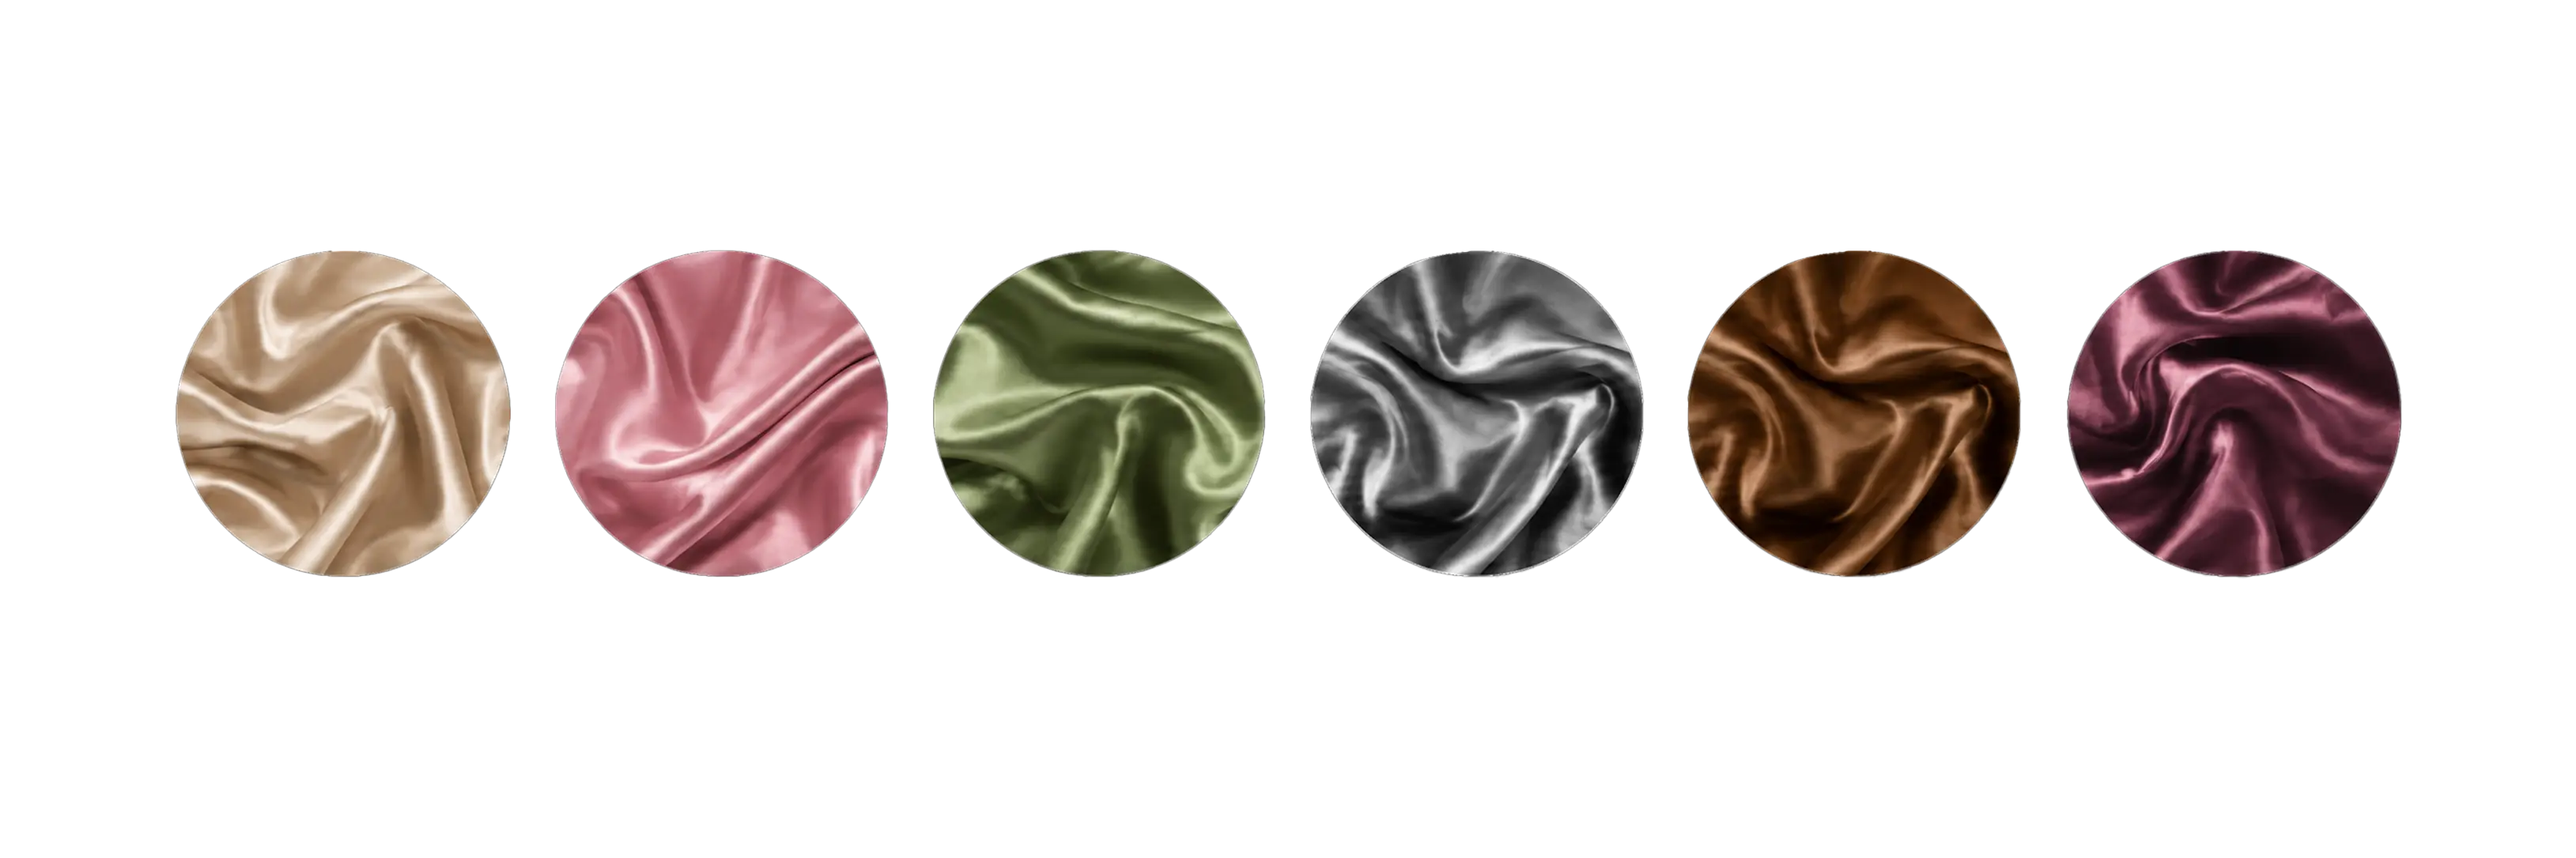
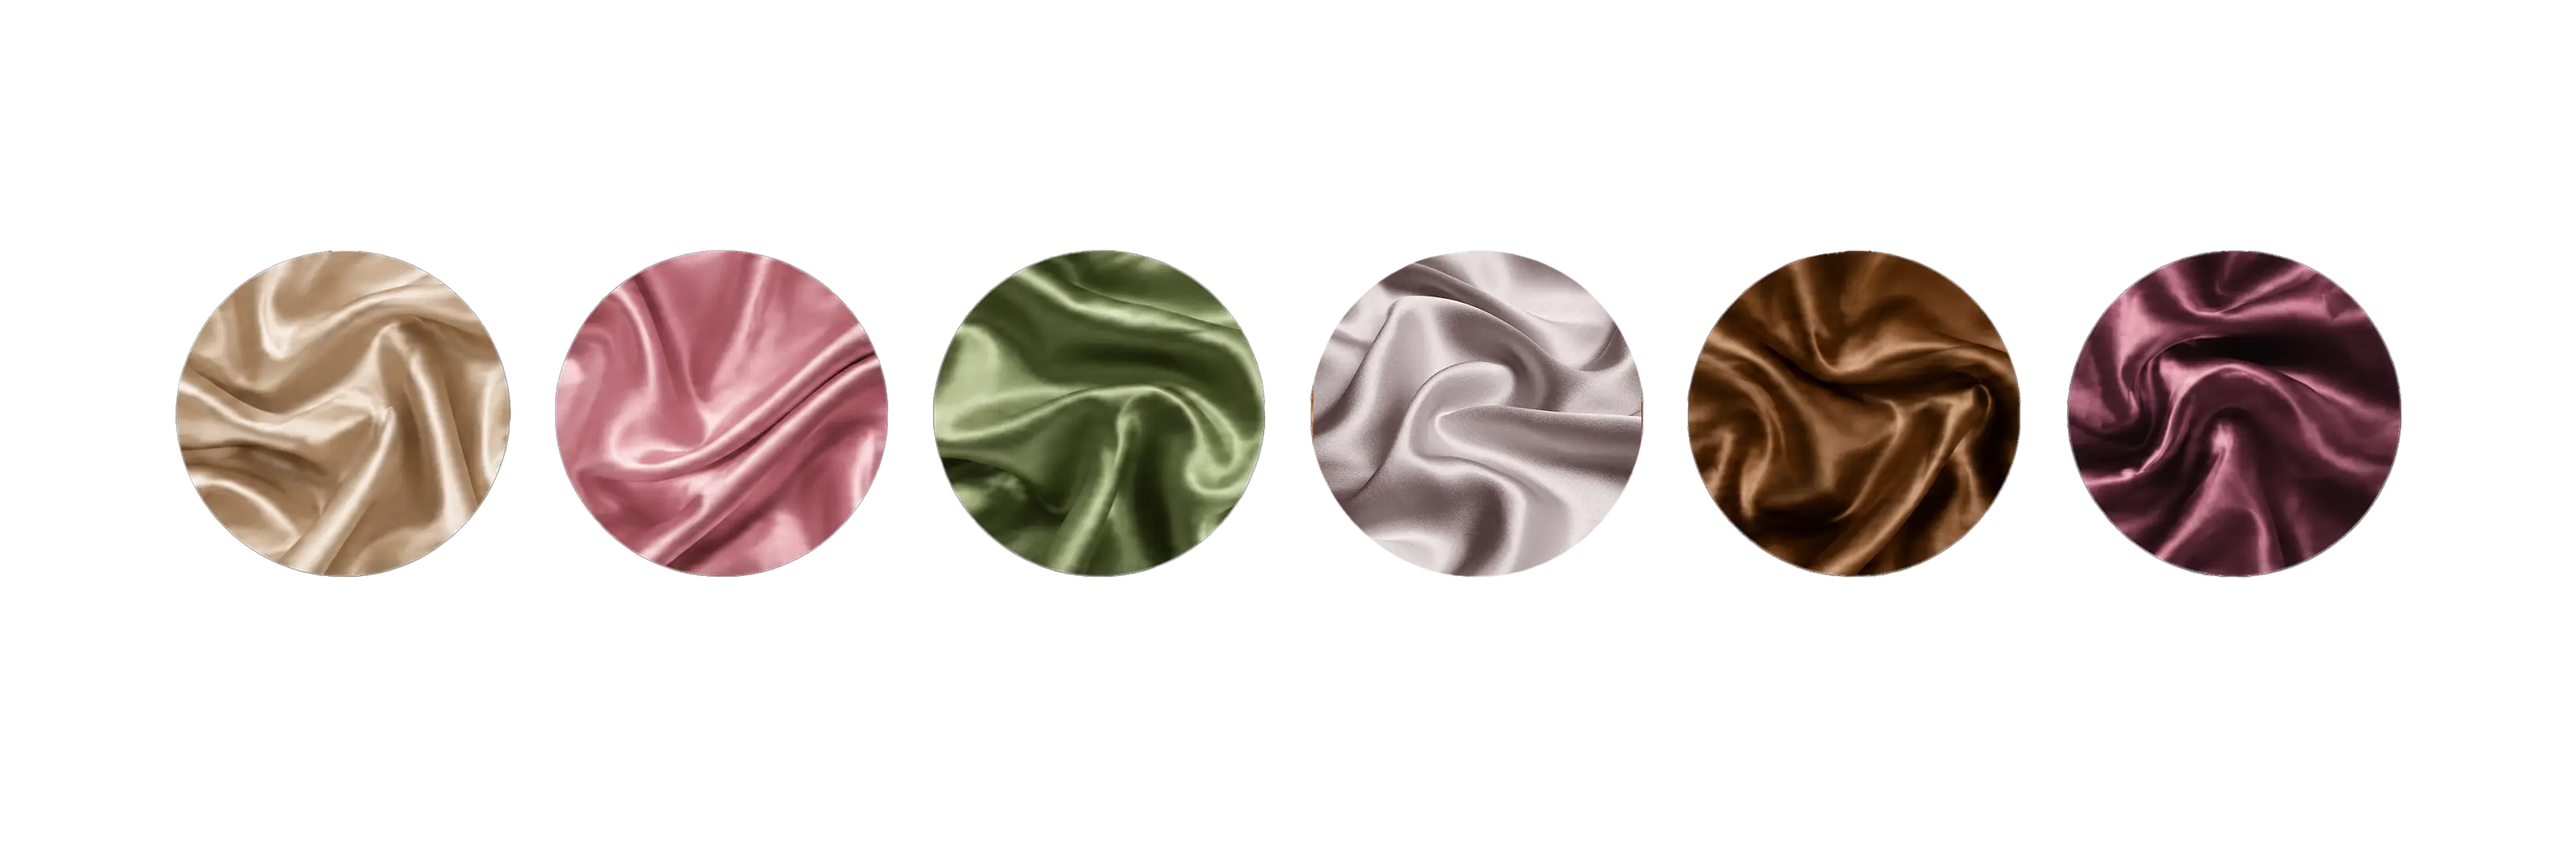
Done rồi nha

Changed region(s): [[0.496, 0.2735, 0.651, 0.6685]]

diff --git a/components/RSVPForm.tsx b/components/RSVPForm.tsx
@@ -7,6 +7,7 @@ import { useForm } from "react-hook-form";
 import { useWeddingConfig } from "@/lib/wedding-config";
 import { useUiStrings } from "@/lib/ui-strings";
 import { useFont } from "@/lib/fonts";
+import { useLanguage } from "@/lib/LanguageContext"; // <-- Đã thêm import
 import { Reveal } from "./Reveal";
 
 type Attending = "Joyfully accepts" | "Regretfully declines";
@@ -19,8 +20,6 @@ type RSVPFormValues = {
   guestCount: string;
   guestNames: string;
   dietary: string;
-  arrivalDate: string;
-  departureDate: string;
 };
 
 type SubmitState = "idle" | "submitting" | "success" | "error";
@@ -29,6 +28,8 @@ export function RSVPForm() {
   const weddingConfig = useWeddingConfig();
   const ui = useUiStrings();
   const font = useFont();
+  const { language } = useLanguage(); // <-- Lấy ngôn ngữ hiện tại
+
   const {
     register,
     handleSubmit,
@@ -44,34 +45,52 @@ export function RSVPForm() {
     { value: "Regretfully declines", label: ui.rsvp.attendingDeclineLabel },
   ];
 
+  // Hàm chọn ảnh theo ngôn ngữ và trạng thái tham dự
+  const getImageSource = (): string => {
+    const baseName = attending === "Joyfully accepts" ? "rsvp-thanks-yes" : "rsvp-thanks-no";
+    const suffix = language === "vi" ? "-vi" : "";
+    return `/images/${baseName}${suffix}.webp`;
+  };
+
   const onSubmit = async (values: RSVPFormValues) => {
+    // 1. Đặt trạng thái submitting ngay lập tức (để nút đổi chữ thành "Đang gửi...")
     setState("submitting");
+
+    // 2. Gửi dữ liệu ngay lập tức (chạy ngầm, không chờ đợi)
     try {
       if (!weddingConfig.rsvp.endpoint) {
-        throw new Error("RSVP endpoint chưa được cấu hình (weddingConfig.rsvp.endpoint).");
+        throw new Error("RSVP endpoint chưa được cấu hình.");
       }
-      // Các field chỉ áp dụng khi "accepts" (số khách, tên khách, ăn kiêng, ngày đến/đi)
-      // vẫn ở trong DOM khi "declines" (chỉ ẩn bằng invisible, không unmount) để giữ
-      // nguyên chiều cao form — nhưng vì thế input vẫn giữ giá trị cũ (hoặc select mặc
-      // định "1") dù người dùng không còn thấy/chỉnh chúng nữa. Xoá sạch các field này
-      // khỏi payload khi declines để không gửi dữ liệu "ma" lên sheet.
+
       const payload: RSVPFormValues =
         values.attending === "Joyfully accepts"
           ? values
-          : { ...values, guestCount: "", guestNames: "", dietary: "", arrivalDate: "", departureDate: "" };
-      // Google Apps Script Web App không hỗ trợ CORS preflight cho JSON:
-      // dùng no-cors + text/plain để tránh preflight, Apps Script tự parse JSON từ e.postData.contents.
-      await fetch(weddingConfig.rsvp.endpoint, {
+          : { ...values, guestCount: "", guestNames: "", dietary: "" };
+
+      // Gửi request ngay lập tức ở background (không await)
+      fetch(weddingConfig.rsvp.endpoint, {
         method: "POST",
         mode: "no-cors",
         headers: { "Content-Type": "text/plain" },
         body: JSON.stringify(payload),
+      }).catch((err) => {
+        console.error("Lỗi gửi RSVP (ngầm):", err);
       });
-      setState("success");
+
     } catch (err) {
       console.error(err);
-      setState("error");
+      // Nếu lỗi config, vẫn cho hiện popup để tránh người dùng thất vọng
+      // (có thể bạn muốn setState("error") tùy ý)
     }
+
+    // 3. Tạo độ trễ 400ms để người dùng kịp nhìn thấy nút "Đang gửi..."
+    setTimeout(() => {
+      // Sau 400ms, chuyển sang thành công và hiện popup
+      setState("success");
+
+      // 4. Tự động đóng popup sau 2.5 giây
+      setTimeout(() => setState("idle"), 10000);
+    }, 2000);
   };
 
   const message =
@@ -81,12 +100,6 @@ export function RSVPForm() {
 
   return (
     <section id="rsvp" className="relative flex min-h-screen items-start justify-center overflow-hidden bg-wine py-24 text-cream">
-      {/* Fixed-height wrapper (not tied to the section's own height) so toggling "attending"
-          (which shows/hides several fields, changing the form's height) never resizes this
-          image and triggers an object-cover re-crop — same fix as the FAQ background. min-h
-          stretches the image to cover the form's worst case — on mobile the 2-col field pairs
-          stack into 1 column, pushing the form to ~1250px, so this needs a bigger floor than
-          desktop's ~1076px — so there's no plain bg-wine fallback showing below it. */}
       <div className="pointer-events-none absolute inset-x-0 top-0 h-screen w-full min-h-[1350px] overflow-hidden" aria-hidden>
         <Image src="/images/rsvp-illustration.webp" alt="" fill className="object-cover" />
       </div>
@@ -120,8 +133,9 @@ export function RSVPForm() {
                 ×
               </button>
               <div className="relative aspect-[1702/1042] w-full">
+                {/* Đã thay src cứng bằng hàm getImageSource() */}
                 <Image
-                  src={attending === "Joyfully accepts" ? "/images/rsvp-thanks-yes.webp" : "/images/rsvp-thanks-no.webp"}
+                  src={getImageSource()}
                   alt={`${message.heading} ${message.subheading}`}
                   fill
                   className="object-cover"
@@ -187,15 +201,9 @@ export function RSVPForm() {
               </div>
             </fieldset>
 
-            {/* Kept mounted and in flow (just invisible, not removed) so the form's natural
-                height never changes when switching options — per the earlier request to keep
-                the same size as the "accepts" state. The order-* classes below reorder what's
-                *visible* so Confirm still sits right after the attending toggle when declining,
-                instead of leaving a gap: the invisible block just gets pushed past the button. */}
             <div
               aria-hidden={attending !== "Joyfully accepts"}
-              className={`flex flex-col gap-6 ${attending === "Joyfully accepts" ? "order-4" : "invisible order-6"
-                }`}
+              className={`flex flex-col gap-6 ${attending === "Joyfully accepts" ? "order-4" : "invisible order-6"}`}
             >
               <Field label={ui.rsvp.guestCountLabel}>
                 <select {...register("guestCount")} className="input">
@@ -214,16 +222,6 @@ export function RSVPForm() {
               <Field label={ui.rsvp.dietaryLabel}>
                 <input {...register("dietary")} className="input" type="text" />
               </Field>
-
-              {/* <div className="grid gap-6 sm:grid-cols-2">
-                <Field label="Arrival Date in Ho Chi Minh City">
-                  <input {...register("arrivalDate")} className="input" type="date" />
-                </Field>
-
-                <Field label="Departure Date from Ho Chi Minh City">
-                  <input {...register("departureDate")} className="input" type="date" />
-                </Field>
-              </div> */}
             </div>
 
             {state === "error" && (
@@ -235,14 +233,13 @@ export function RSVPForm() {
             <button
               type="submit"
               disabled={state === "submitting"}
-              className={`mt-2 rounded-full px-8 py-3.5 ${font("body")} text-base transition-opacity hover:opacity-90 disabled:opacity-50 ${attending === "Joyfully accepts" ? "order-6" : "order-5"
-                }`}
+              className={`mt-2 rounded-full px-8 py-3.5 ${font("body")} text-base transition-opacity hover:opacity-90 disabled:opacity-50 ${attending === "Joyfully accepts" ? "order-6" : "order-5"}`}
               style={{ backgroundColor: "#FEF7E9", color: "#501111" }}
             >
               {state === "submitting" ? ui.rsvp.sending : ui.rsvp.confirm}
             </button>
 
-            <p className={`${font("body")} order-7 text-center text-sm text-cream whitespace-pre-line`}>
+            <p className={`${font("body")} order-7 text-center text-xs sm:text-sm text-cream whitespace-pre-line`}>
               {ui.rsvp.reminder}
             </p>
           </form>

diff --git a/lib/wedding-config.ts b/lib/wedding-config.ts
@@ -168,7 +168,7 @@ export const weddingConfigEn = {
   rsvp: {
     // Web App URL sau khi deploy scripts/apps-script.gs lên Google Apps Script.
     endpoint:
-      "https://script.google.com/macros/s/AKfycbyL2t4bWYx1DrJioe7YOK9JizjtfGkscF1I5qKXrkMl9-ASRVzGwOKagybc0WDouPrY/exec",
+      "https://script.google.com/macros/s/AKfycbxNPvIM5mNBgQE4-KPI3mHCAl8o7XDA7hl1U9D5w7JWUW1fMXXqSRC7untf0ChGJZwL/exec",
     guestCountOptions: [1, 2],
     successMessage: {
       heading: "Thank you",
@@ -242,7 +242,7 @@ export const weddingConfigVi: WeddingConfig = {
       },
       {
         title: "30.04.2026 · Lễ Vu Quy",
-        text: "Chén trà nghi ngút khói, Hai họ nên duyên, Một nhà chung bóng.",
+        text: "Chén trà nghi ngút khói,\n Hai họ nên duyên,\n Một nhà chung bóng.",
         photo: "/images/frame3_p5.webp",
       },
       {

diff --git a/components/TimelineSection.tsx b/components/TimelineSection.tsx
@@ -75,7 +75,7 @@ function TextBlock({
       className={`flex flex-col gap-2 text-left ${font("timeline")} ${className}`}
     >
       <p style={{ fontSize }}>{item.title}</p>
-      <p style={{ fontSize }} className="leading-snug">
+      <p style={{ fontSize }} className="leading-snug whitespace-pre-line">
         {item.text}
       </p>
     </motion.div>
@@ -227,7 +227,7 @@ export const TimelineSection = forwardRef<TimelineHandle>(function TimelineSecti
                   delay={0}
                   width={s(298)}
                   fontSize={s(26)}
-                  className="mt-[15px] mb-[92px]"
+                  className="mt-[15px] mb-[92px] "
                 />
                 <PhotoBlock
                   item={item1}
